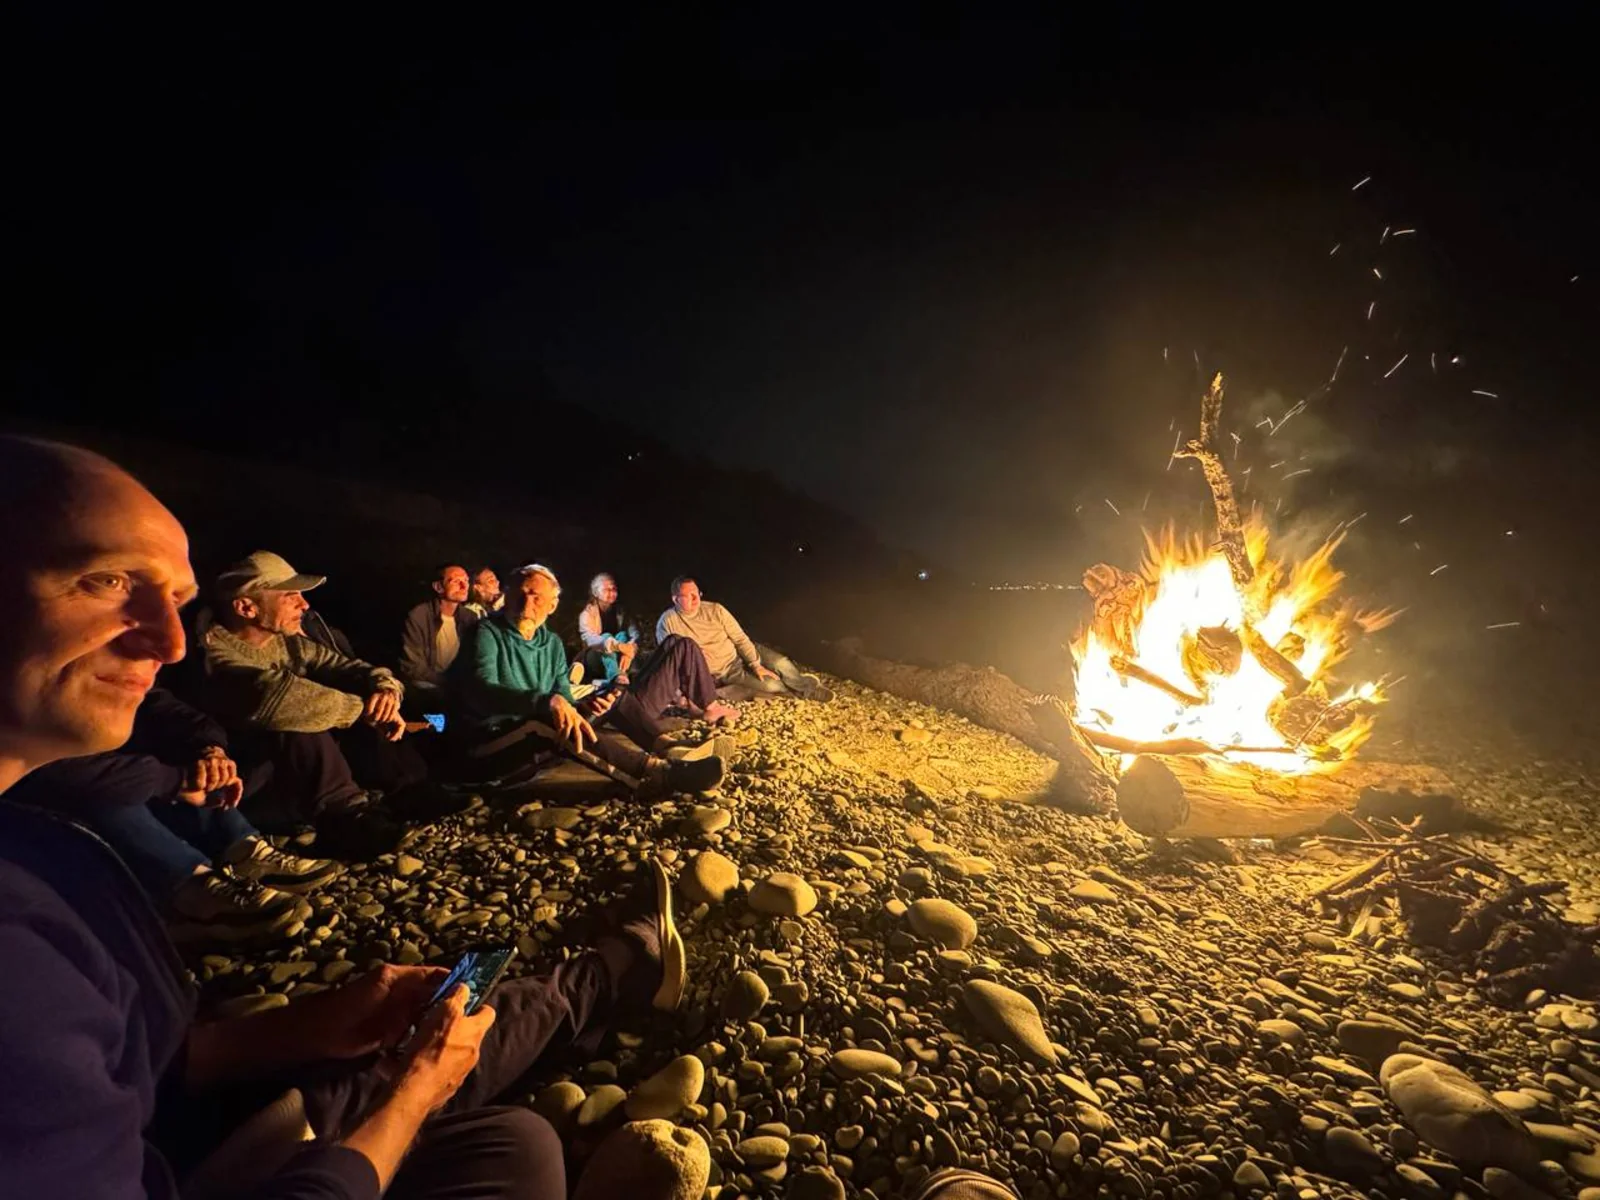
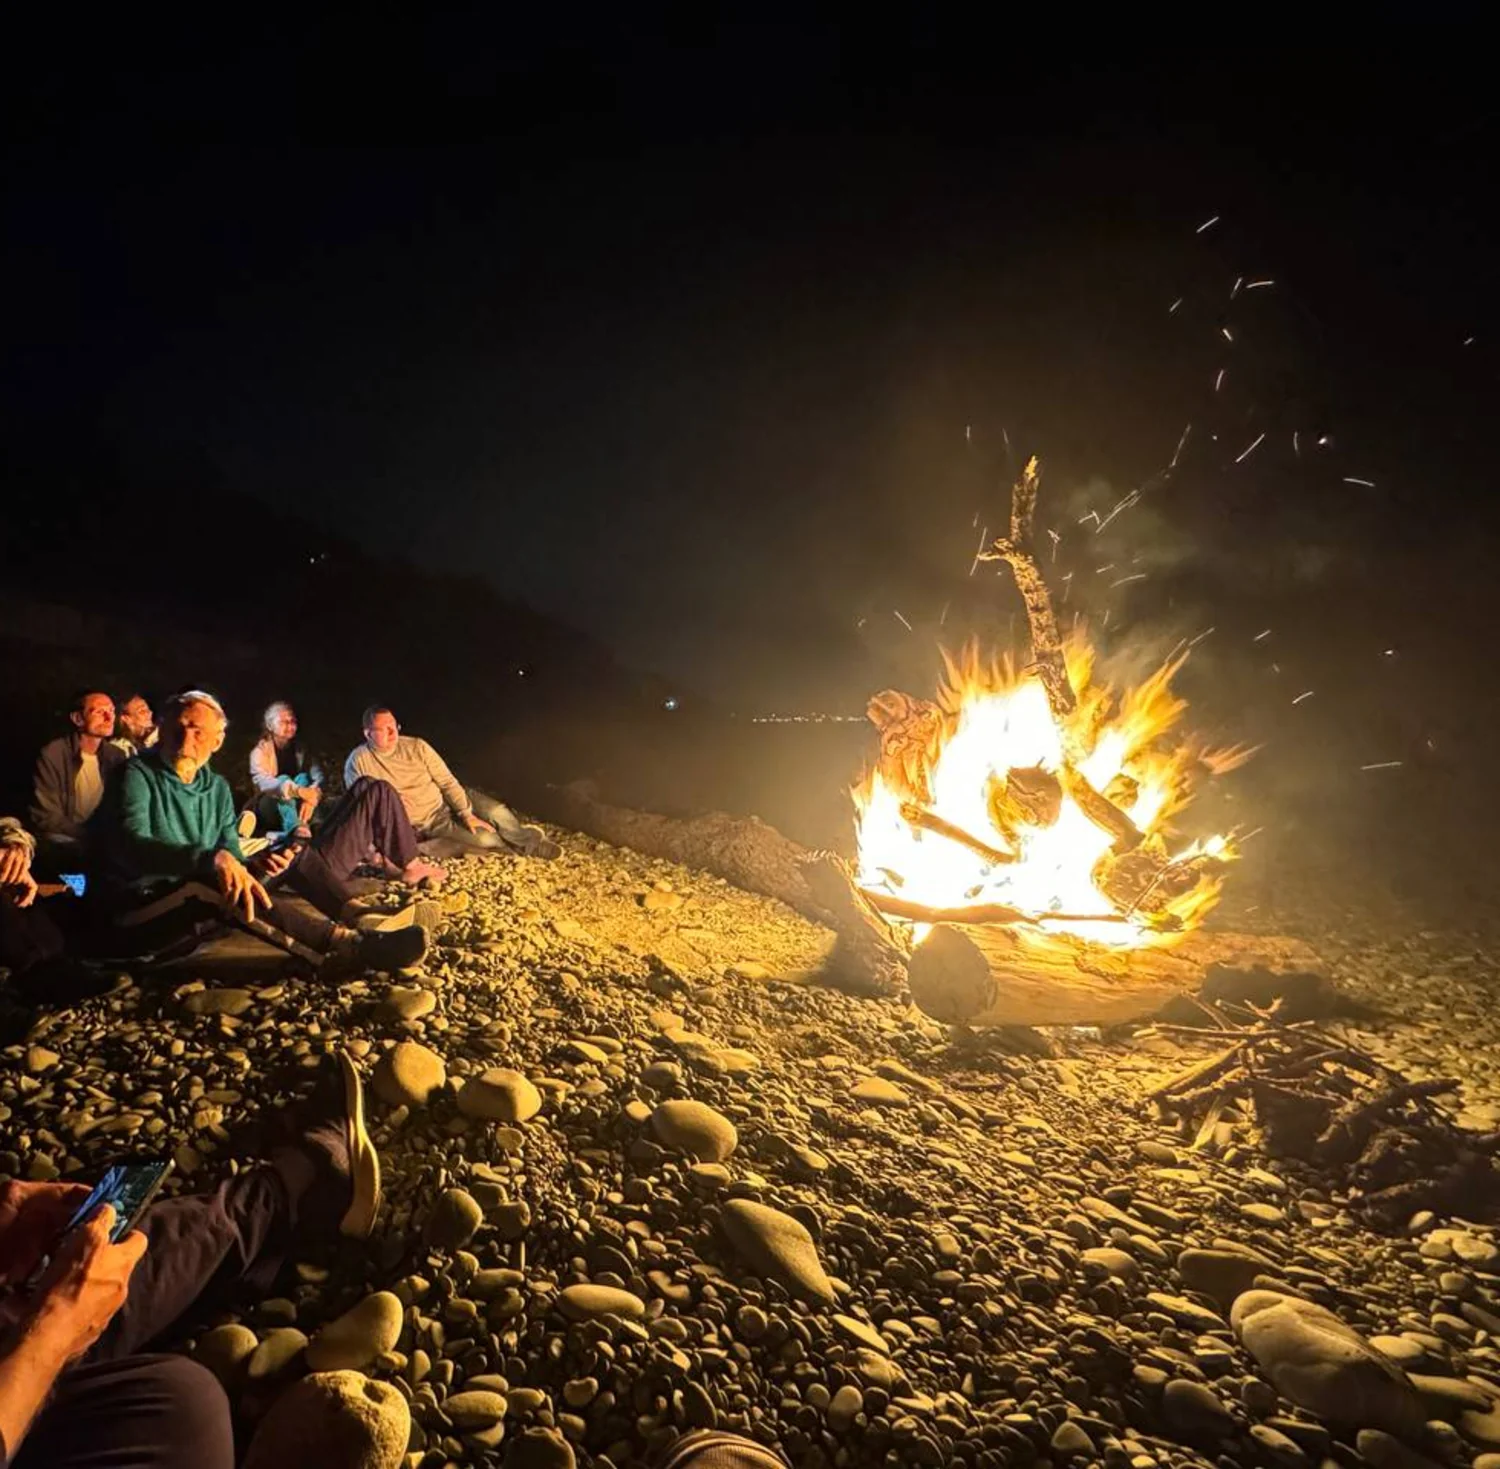
Костёр: обрезано крупное лицо слева; «Слово автора» на всю ширину; заголовок отзывов
Костёр. object-position тут только вертикальный — бокс намного шире
фото, горизонтального запаса на кроп нет, поэтому крупное лицо у левого
края убиралось не сдвигом, а физической обрезкой файла. Срезано 300px
слева от источника (портрет пропал полностью, в кадре осталась только
рука с телефоном), заново подобран вертикальный object-position — 65%
по-прежнему держит группу и пламя целиком на обеих ширинах.

«Слово автора». Оба абзаца жили в узкой 420px-колонке под фото телом
16-17px рядом с 38px цитатой — читались как мелкая сноска, а разная
высота колонок (фото+текст выше квоты+подписи) давала пустой тёмный
хвост снизу слева. Абзацы вынесены под всю сетку отдельным блоком
на var(--w-text), размер синхронизирован с .lead (18/21px). Колонки
после этого сравнялись по высоте, пустота ушла.

Отзывы: заголовок «с кем работал» → «кто побывал на программах».

diff --git a/index.html b/index.html
@@ -500,9 +500,16 @@ h3, .h3 { font-size:20px; line-height:1.26; margin:0 0 10px; }
 
 .word-grid { display:grid; gap:28px; }
 @media (min-width:1200px) { .word-grid { grid-template-columns:minmax(0,1fr) 420px; gap:80px; align-items:start; } }
-.word-ph { aspect-ratio:1/1; max-width:420px; margin-bottom:26px; }
+.word-ph { aspect-ratio:1/1; max-width:420px; }
 .word-q { margin:0 0 18px; font-size:26px; line-height:1.3; }
 @media (min-width:1200px) { .word-q { font-size:38px; } }
+/* абзацы вынесены из-под фото в отдельный блок на всю ширину секции:
+   в узкой 420px-колонке они читались как мелкая сноска (16-17px body)
+   рядом с 38px цитатой, а разная высота колонок квоты и фото+текст
+   давала пустой тёмный хвост снизу */
+.word-text { max-width:var(--w-text); margin-top:36px; padding-top:32px;
+  border-top:1px solid var(--line-foam); font-size:18px; line-height:1.55; }
+@media (min-width:1200px) { .word-text { margin-top:56px; font-size:21px; } }
 
 /* ---- приглашённый мастер ----
    Prata только у имени и цитаты; роль — Onest, иначе в колонке
@@ -1159,7 +1166,7 @@ a.sr-only:focus { left:0; top:0; width:auto; height:auto; z-index:60;
   <!-- ================= пауза: костёр ================= -->
   <figure class="bleed rv" style="height:44vh; min-height:240px;">
     <div class="ph">
-      <img src="photos/r/g-bonfire.webp" alt="Вечерний сбор группы у костра на берегу" width="1600" height="1200" loading="lazy" decoding="async" style="object-position:center 65%;">
+      <img src="photos/r/g-bonfire.webp" alt="Вечерний сбор группы у костра на берегу" width="1500" height="1469" loading="lazy" decoding="async" style="object-position:center 65%;">
     </div>
     <div class="scrim scrim--light"></div>
     <figcaption><div class="pr" style="font-size:28px; line-height:1.12;">Костёр на берегу</div></figcaption>
@@ -1168,7 +1175,7 @@ a.sr-only:focus { left:0; top:0; width:auto; height:auto; z-index:60;
   <!-- ================= отзывы ================= -->
   <section class="sec">
     <div class="wrap">
-      <h2 class="rv" style="max-width:760px; margin-bottom:36px;">Что говорят те, с кем работал Андрей Захаревич</h2>
+      <h2 class="rv" style="max-width:760px; margin-bottom:36px;">Что говорят те, кто побывал на программах Андрея Захаревича</h2>
 
       <p class="eb rv">Отзывы с ретрита в Вардане</p>
       <div class="grid g3 stg revs" style="margin-bottom:20px;">
@@ -1404,9 +1411,11 @@ a.sr-only:focus { left:0; top:0; width:auto; height:auto; z-index:60;
           <div class="ph ph--plain word-ph">
             <img src="photos/r/author-portrait.webp" alt="Андрей Захаревич" width="900" height="904" loading="lazy" decoding="async">
           </div>
-          <p>Всё то, что вы и так делаете — дышите, ходите, спите, говорите, управляете, планируете, распределяете, — вы можете делать во много раз эффективнее. Помогая себе и близким быть здоровыми и счастливыми в любой ситуации. Вот, собственно, и весь секрет.</p>
-          <p>Если чувствуете, что способны в своей жизни на большее, но нужен толчок для прорыва, — жду вас в Вардане.</p>
         </div>
+      </div>
+      <div class="word-text rv">
+        <p>Всё то, что вы и так делаете — дышите, ходите, спите, говорите, управляете, планируете, распределяете, — вы можете делать во много раз эффективнее. Помогая себе и близким быть здоровыми и счастливыми в любой ситуации. Вот, собственно, и весь секрет.</p>
+        <p>Если чувствуете, что способны в своей жизни на большее, но нужен толчок для прорыва, — жду вас в Вардане.</p>
       </div>
     </div>
   </section>
